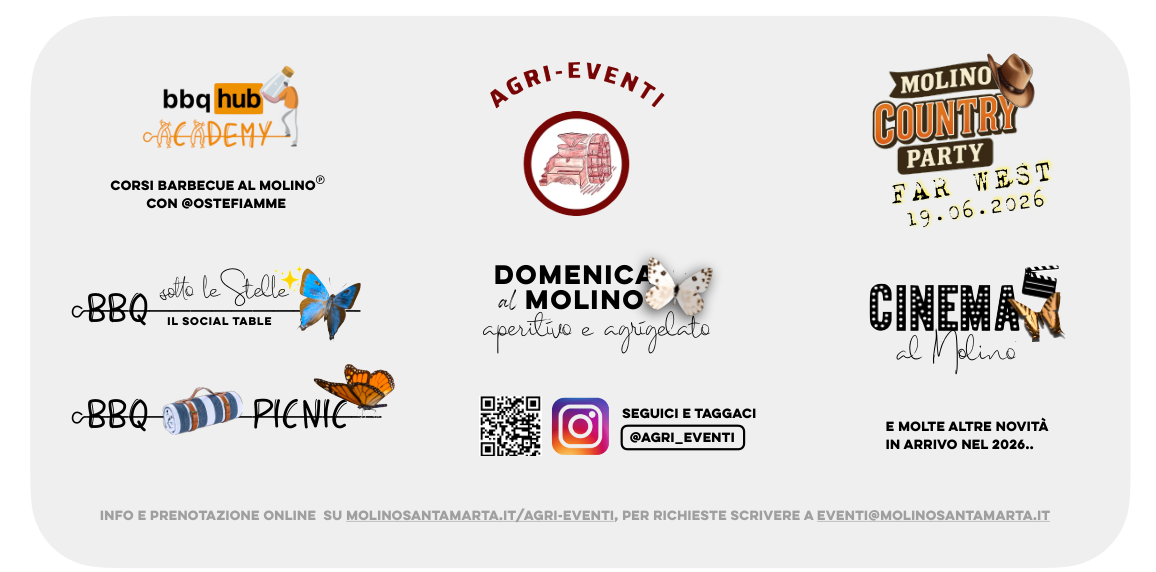
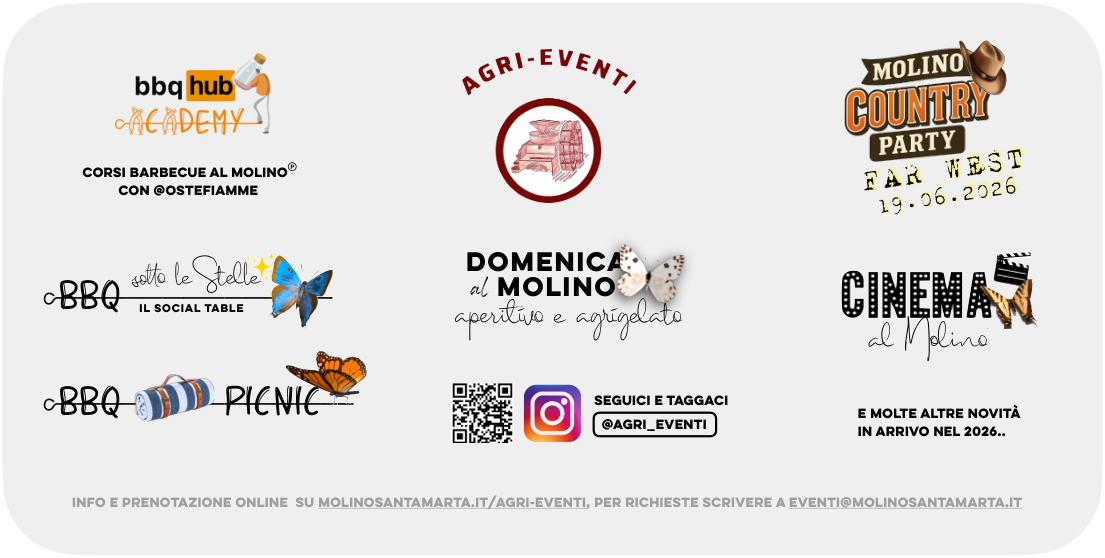
Tighten footer promo block

diff --git a/index.html b/index.html
@@ -149,34 +149,10 @@
 
         <figure class="promo-panel">
           <img
-            src="./menu-assets/footer.png"
+            src="./menu-assets/footer.png?v=20260316j"
             alt="Eventi e novità Agri Eventi 2026"
           />
         </figure>
-
-        <section class="info-card">
-          <div>
-            <p class="eyebrow">Info e prenotazioni</p>
-            <h2>Questa base è già pronta per QR code e futuri upgrade.</h2>
-            <p>
-              Possiamo aggiungere video, allergeni, descrizioni più ricche,
-              filtri per categorie e un flusso ordine ancora più completo.
-            </p>
-          </div>
-          <div class="info-actions">
-            <a
-              class="utility-btn utility-btn--accent"
-              href="https://molinosantamarta.it/agri-eventi"
-              target="_blank"
-              rel="noreferrer"
-            >
-              molinosantamarta.it/agri-eventi
-            </a>
-            <a class="utility-btn" href="mailto:eventi@molinosantamarta.it">
-              eventi@molinosantamarta.it
-            </a>
-          </div>
-        </section>
       </main>
     </div>
 

diff --git a/styles.css b/styles.css
@@ -1225,11 +1225,14 @@ a {
 .promo-panel {
   margin: 0;
   overflow: hidden;
+  background: transparent;
+  backdrop-filter: none;
 }
 
 .promo-panel img {
   width: 100%;
   height: auto;
+  display: block;
 }
 
 .info-card {
